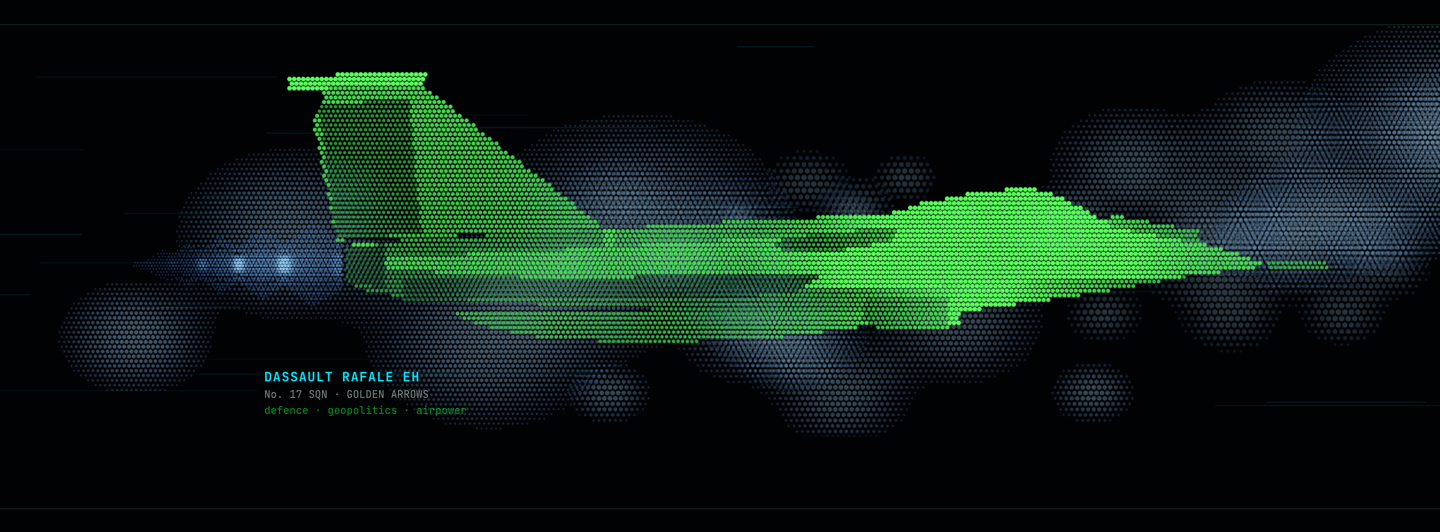
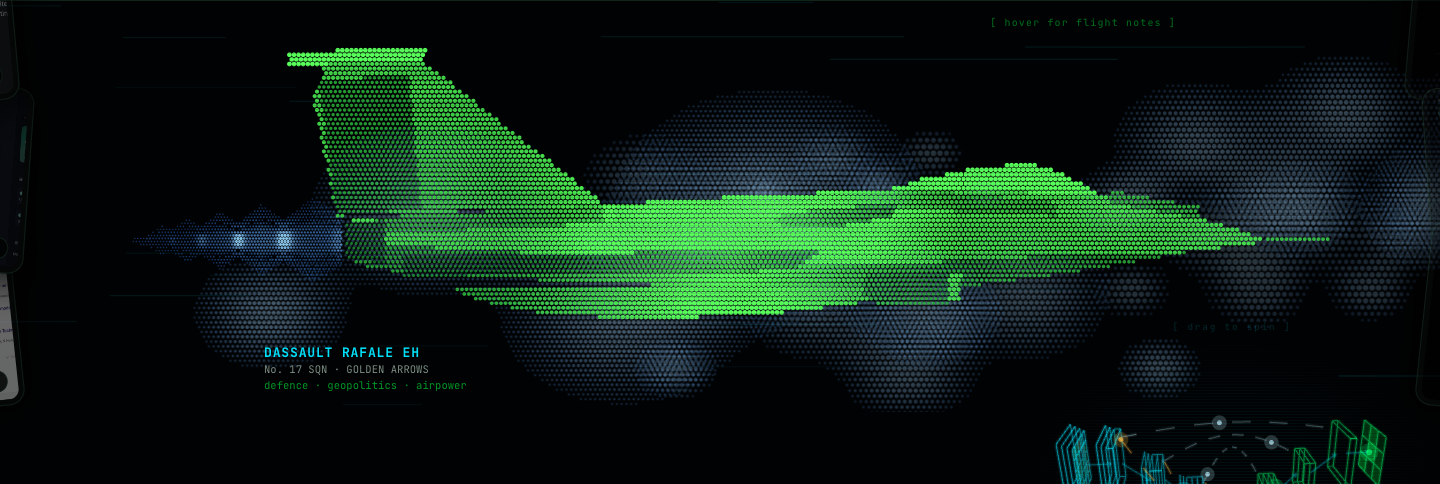
README: fresh screenshots of the current site and a rewritten intro

diff --git a/README.md b/README.md
@@ -1,14 +1,14 @@
 # mayukh-d.github.io
 
-My personal portfolio: a single-page, terminal-themed site built with plain HTML, CSS, and
-JavaScript. No frameworks, no build step, no dependencies. One `index.html` page whose styles
-and scripts are split into small component files under `assets/css/` and `assets/js/`, served
-straight off GitHub Pages. How the pieces fit together, with diagrams, is in
-[`docs/ARCHITECTURE.md`](docs/ARCHITECTURE.md). The one moving part is the
-optional "ask me anything" terminal, backed by a small Cloudflare Worker in
-[`chat-worker/`](chat-worker/).
+My portfolio at **[mayukhdas.com](https://mayukhdas.com/)**: one terminal-themed page about
+my work in machine learning, from sovereign AI at Eccoi to mapping Australia's tree canopy
+from space at Haizea, and the research and projects behind it.
 
-**Live at [mayukhdas.com](https://mayukhdas.com/)**
+It is plain HTML, CSS and JavaScript on GitHub Pages: no framework, no build step, no
+dependencies. The markup lives in `index.html`; its styles and behaviour are small component
+files under `assets/css/` and `assets/js/`, and [`docs/ARCHITECTURE.md`](docs/ARCHITECTURE.md)
+explains how they fit together. The only server-side piece is the ask-me-anything terminal,
+a small Cloudflare Worker in [`chat-worker/`](chat-worker/).
 
 ![Hero](assets/screenshots/hero.png)
 
@@ -33,13 +33,18 @@ drawn cell by cell on a canvas with procedurally generated cloud volumes driftin
 
 ### Interests
 
+Each card has an art strip on top: hover it and the strip runs, with green wireframe models
+flying in (three.js, loaded only when the section is near). On a phone each strip plays once
+as it scrolls into view.
+
 ![Interests](assets/screenshots/interests.png)
 
 ### Projects
 
-Six projects, each linking out to its own repository, plus live demos (a Hugging Face Space
-for the nanoGPT story generator, a hosted build of FoodLens) and PDF write-ups for the ML
-work under `assets/reports/`.
+Featured projects as cards, and the rest as one-line rows that open into full cards. Each
+links out to its repository, with live demos (a Hugging Face Space for the nanoGPT story
+generator, a hosted build of FoodLens), a tl;dr for the research work, and PDF write-ups
+under `assets/reports/`.
 
 ![Projects](assets/screenshots/projects.png)
 
@@ -48,6 +53,8 @@ work under `assets/reports/`.
 ![Experience](assets/screenshots/experience.png)
 
 ### Skills
+
+Click a skill and a small terminal opens with what I actually did with it.
 
 ![Skills](assets/screenshots/skills.png)
 
@@ -68,6 +75,13 @@ covers become slim labelled tabs on each edge that tuck away while you read. The
 by shape, not width: anything taller than it is wide gets the tabs.
 
 <img src="assets/screenshots/mobile-hero.png" alt="Mobile hero" width="320">
+
+### Light mode
+
+Dark is the default; the key in the menu switches to "green paper", and the choice is
+remembered on that device.
+
+![Light mode](assets/screenshots/light-hero.png)
 
 ## Architecture
 
@@ -150,7 +164,7 @@ assets/
   mayukh-full.webp          hero cut-out
   tabs/, logos/, cards/     edge-tab screenshots, organisation logos, project art
   reports/                  project write-ups linked from the projects section
-  screenshots/              the page screenshots in this README
+  screenshots/              the page screenshots in this README (October 2026)
 chat-worker/                the ask-me-anything backend (Cloudflare Worker)
 docs/
   ARCHITECTURE.md           how the pieces fit, with a table of every file
